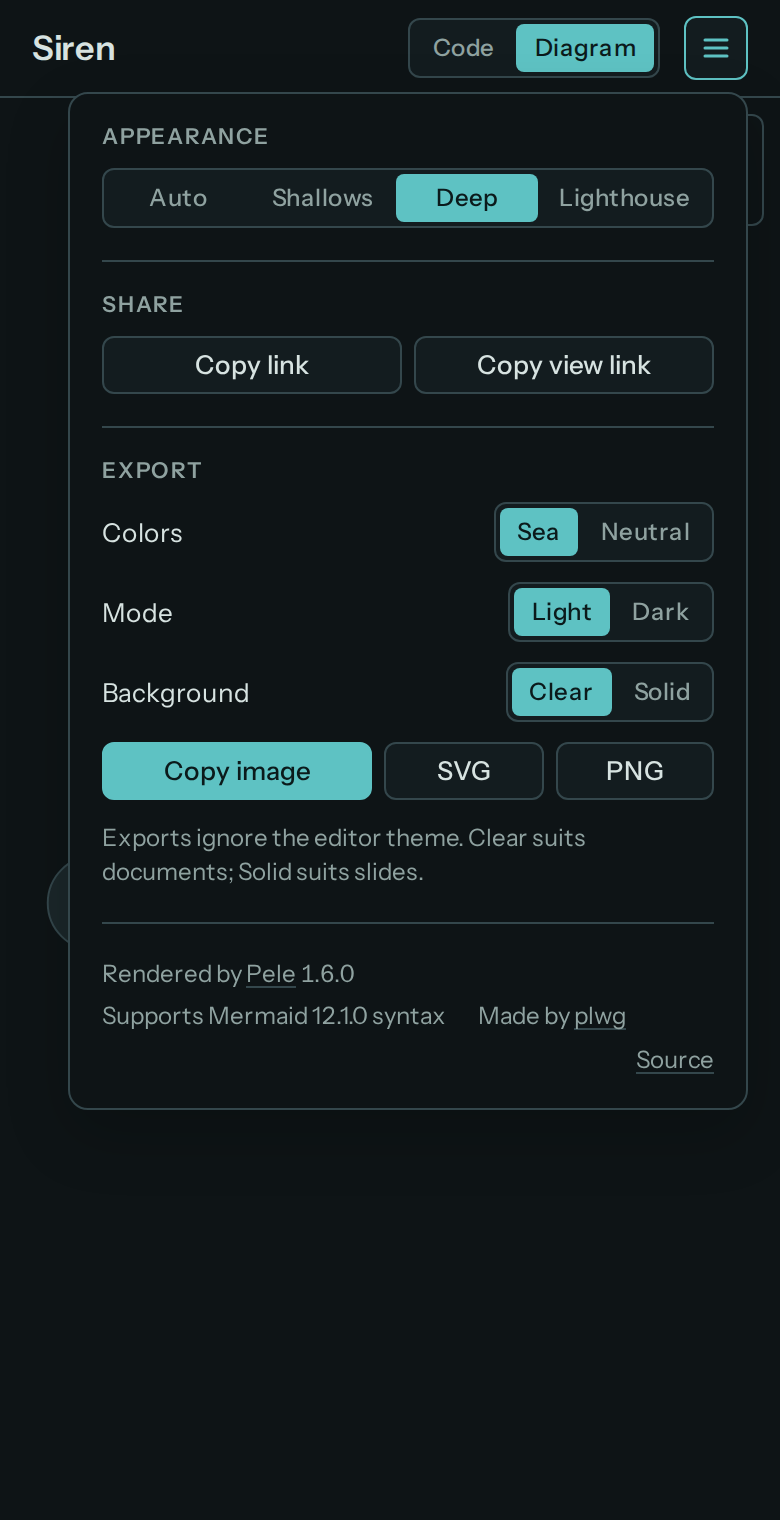
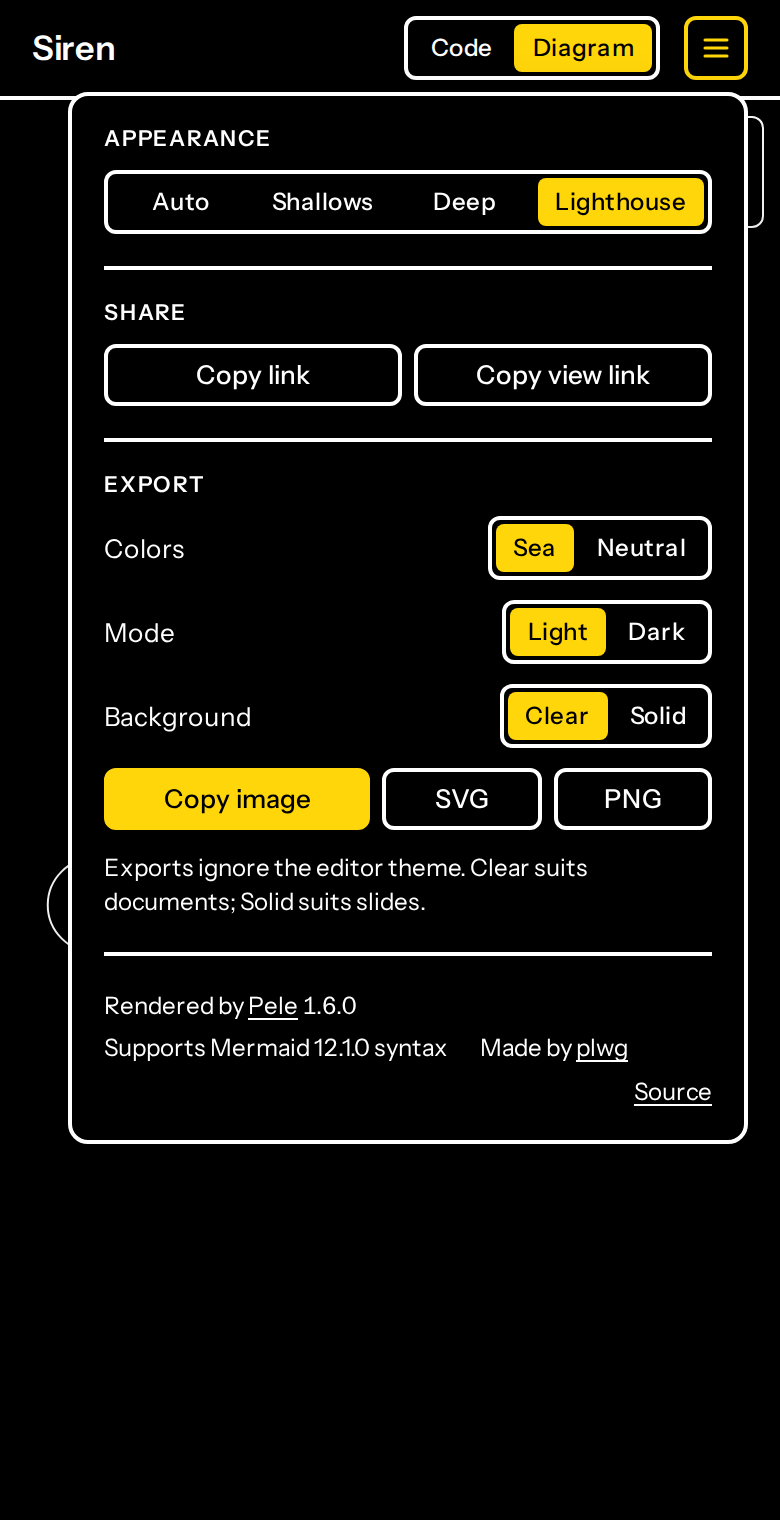
Feature the Lighthouse theme in the README
Lead with the high-contrast screenshot, show Shallows and Deep side by
side, and retake the phone menu screenshot in Lighthouse.

diff --git a/README.md b/README.md
@@ -4,23 +4,25 @@ Render Mermaid diagrams in the browser with [Pele](https://github.com/obsidianmd
 
 Live at https://plwg.github.io/siren/
 
-<picture>
-  <source media="(prefers-color-scheme: dark)" srcset="docs/screenshots/desktop-dark.png">
-  <img alt="Siren with Mermaid source on the left and the rendered flowchart on the right" src="docs/screenshots/desktop-light.png">
-</picture>
+<img alt="Siren in Lighthouse, the high-contrast theme: Mermaid source on the left, the rendered flowchart on the right" src="docs/screenshots/desktop-contrast.png">
+
+**Lighthouse**, the high-contrast theme: pure black and white with a single signal yellow, heavier strokes and strong focus rings. **Auto** picks it when your system asks for more contrast.
 
 <table>
   <tr>
-    <td valign="top"><img alt="Lighthouse high-contrast theme" src="docs/screenshots/desktop-contrast.png" width="440"></td>
-    <td valign="top"><img alt="Phone layout showing the Diagram tab" src="docs/screenshots/phone-diagram.png" width="180"></td>
-    <td valign="top"><img alt="Phone layout with the share and export menu open" src="docs/screenshots/phone-menu.png" width="180"></td>
+    <td valign="top"><img alt="Shallows light theme" src="docs/screenshots/desktop-light.png" width="400"></td>
+    <td valign="top"><img alt="Deep dark theme" src="docs/screenshots/desktop-dark.png" width="400"></td>
   </tr>
   <tr>
-    <td>Lighthouse, the high-contrast theme</td>
-    <td>Phone: Diagram tab</td>
-    <td>Phone: ☰ menu</td>
+    <td>Shallows (light)</td>
+    <td>Deep (dark)</td>
   </tr>
 </table>
+
+<p>
+  <img alt="Phone layout showing the Diagram tab" src="docs/screenshots/phone-diagram.png" width="200">
+  <img alt="Phone layout in Lighthouse with the menu open" src="docs/screenshots/phone-menu.png" width="200">
+</p>
 
 - Type Mermaid on the left; the diagram renders on the right.
 - On phones, **Code** and **Diagram** tabs show one at a time at full height; the theme switcher and credits move into the ☰ menu.
